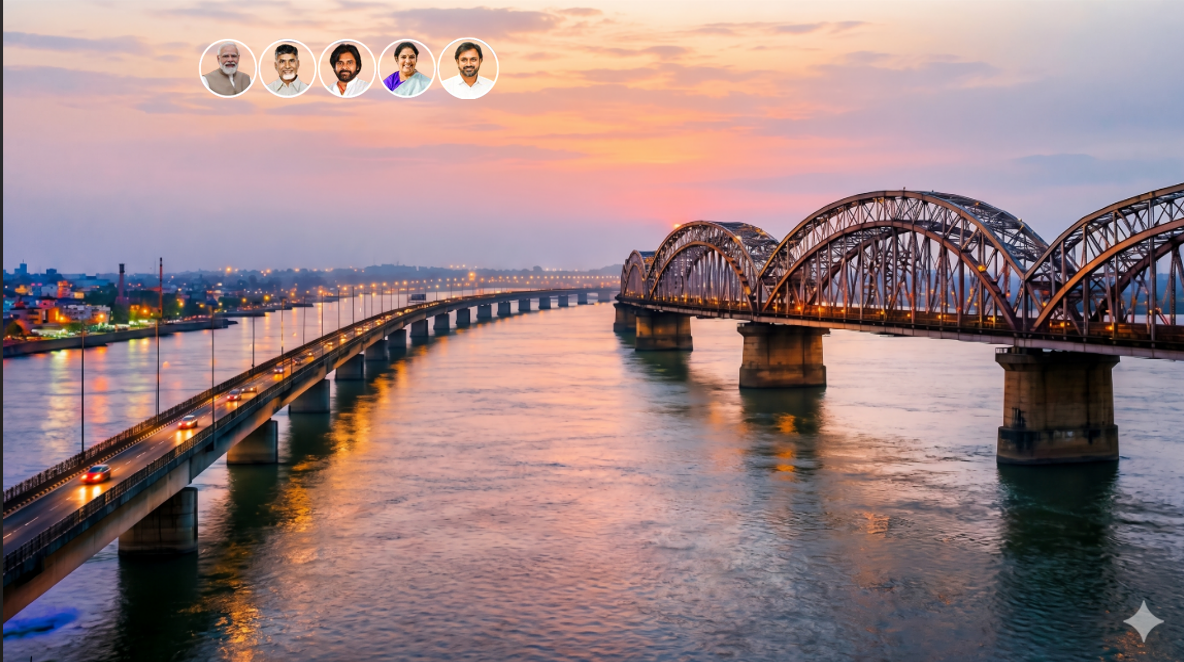
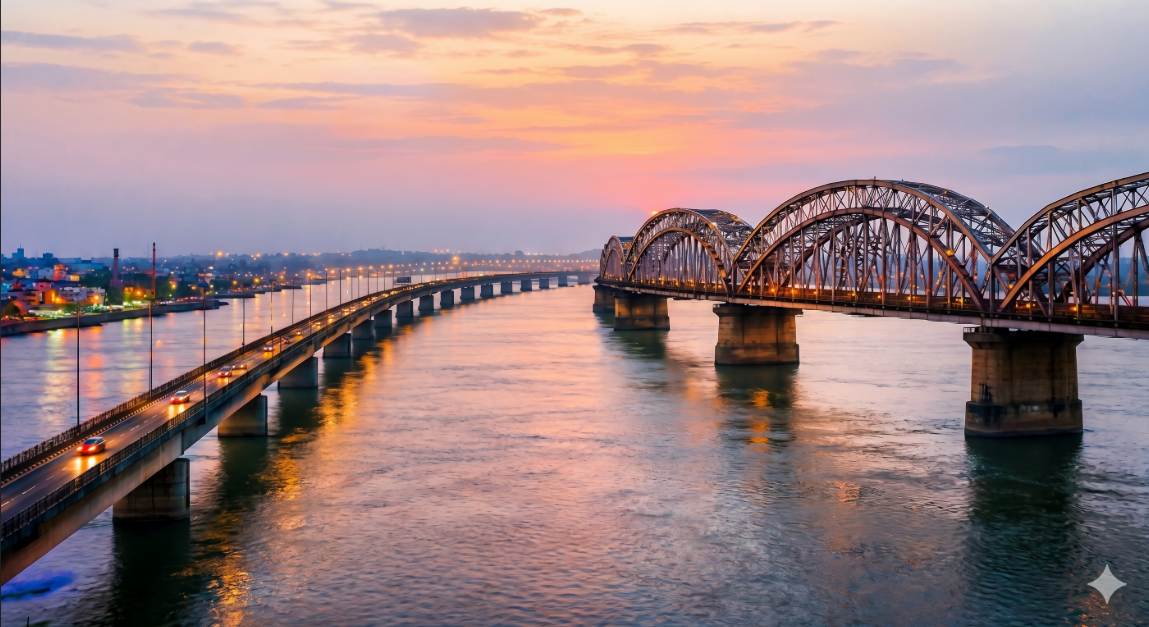
Save: push workspace changes

diff --git a/src/components/HeroSection.jsx b/src/components/HeroSection.jsx
@@ -1,7 +1,22 @@
 import { MapPin, Sun, Waves, Megaphone, ChevronRight } from "lucide-react";
 import heroBg from "@/assets/hero-bg.png";
+import modi from "@/assets/modi.png";
+import naidu from "@/assets/naidu.png";
+import pk from "@/assets/pk.png";
+import purandeswari from "@/assets/purandeswari.png";
+import vasu from "@/assets/vasu.png";
 
 function HeroSection() {
+
+  const LEADERS = [
+  { src: modi},
+  { src: naidu},
+  { src: pk},
+  { src: purandeswari},
+  { src: vasu},
+];
+
+
   return (
     <section className="w-full h-72 relative overflow-hidden select-none">
       <img
@@ -9,7 +24,46 @@ function HeroSection() {
         className="absolute inset-0 w-full h-full object-cover"
         alt="A Image showing godavari river"
       />
-      <div className="absolute inset-0 bg-gradient-to-r from-black/60 to-transparent" />
+      <div className="absolute top-4 left-4 z-10 flex gap-1">
+  <div className="w-8 h-8 rounded-full border-2 border-white overflow-hidden bg-white">
+    <img
+      src={modi}
+      alt="Leader 1"
+      className="w-full h-full object-cover scale-[3.0]"
+    />
+  </div>
+
+  <div className="w-8 h-8 rounded-full border-2 border-white overflow-hidden bg-white">
+    <img
+      src={naidu}
+      alt="Leader 2"
+      className="w-full h-full object-cover scale-[2.0]"
+    />
+  </div>
+
+  <div className="w-8 h-8 rounded-full border-2 border-white overflow-hidden bg-white">
+    <img
+      src={pk}
+      alt="Leader 3"
+      className="w-full h-full object-cover scale-[3.0]"
+    />
+  </div>
+  <div className="w-8 h-8 rounded-full border-2 border-white overflow-hidden bg-white">
+    <img
+      src={purandeswari}
+      alt="Leader 4"
+      className="w-full h-full object-cover scale-[3.0]"
+    />
+  </div>
+  <div className="w-8 h-8 rounded-full border-2 border-white overflow-hidden bg-white">
+    <img
+      src={vasu}
+      alt="Leader 5"
+      className="w-full h-full object-cover scale-[2.0]"
+    />
+  </div>
+</div>
+      
 
       <div className="absolute top-4 right-4 bg-white/90 backdrop-blur-md rounded-2xl p-3 shadow-md flex flex-col gap-2 border border-white/40 min-w-[128px]">
         <div className="flex items-center gap-2.5 text-left">

diff --git a/src/data/family.js b/src/data/family.js
@@ -6,8 +6,7 @@ export const users = [
     age: 42,
     gender: "Female",
     avatar: "https://images.unsplash.com/photo-1544005313-94ddf0286df2?w=150&auto=format&fit=crop&q=80",
-    idCardNumber: "9959401213",
-    phone: "+91 98765 43210",
+    idCardNumber: "XXXX-XXXX-9012",
   },
   {
     id: "2",
@@ -16,8 +15,7 @@ export const users = [
     age: 18,
     gender: "Male",
     avatar: "https://images.unsplash.com/photo-1507003211169-0a1dd7228f2d?w=150&auto=format&fit=crop&q=80",
-    idCardNumber: "9959401213",
-    phone: "+91 99887 76655",
+    idCardNumber: "XXXX-XXXX-3456",
   },
   {
     id: "3",
@@ -26,7 +24,6 @@ export const users = [
     age: 14,
     gender: "Female",
     avatar: "https://images.unsplash.com/photo-1517841905240-472988babdf9?w=150&auto=format&fit=crop&q=80",
-    idCardNumber: "9959401213",
-    phone: "+91 91234 56789",
+    idCardNumber: "XXXX-XXXX-7890",
   }
 ];
